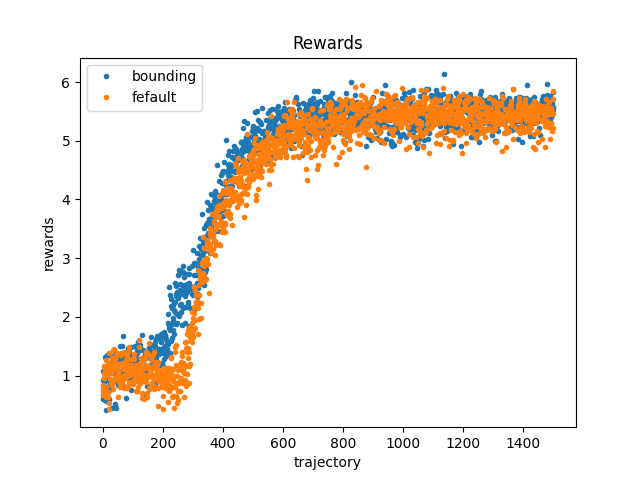
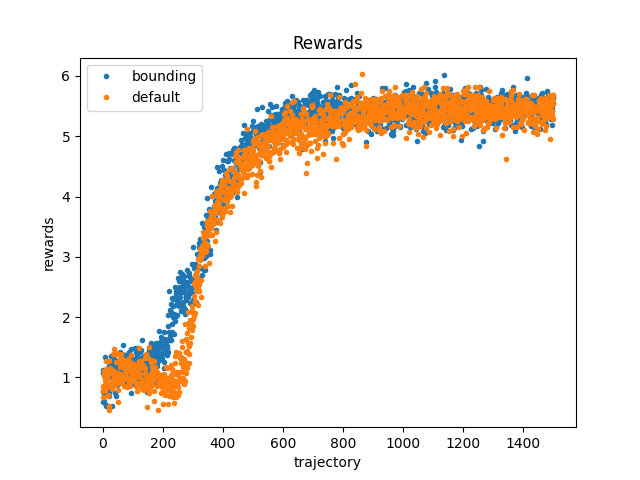
finish exp data generation

diff --git a/experiments/bounding_experiment/showing.py b/experiments/bounding_experiment/showing.py
@@ -60,7 +60,7 @@ def main():
     default_rewards = read_files_data(default_rewards_files)
 
     plt.plot(np.mean(modified_rewards, axis=0), ".", label="bounding")
-    plt.plot(np.mean(default_rewards, axis=0) / 100, ".", label="fefault")
+    plt.plot(np.mean(default_rewards, axis=0) / 100, ".", label="default")
     plt.legend()
     plt.title('Rewards')
     plt.xlabel('trajectory')
